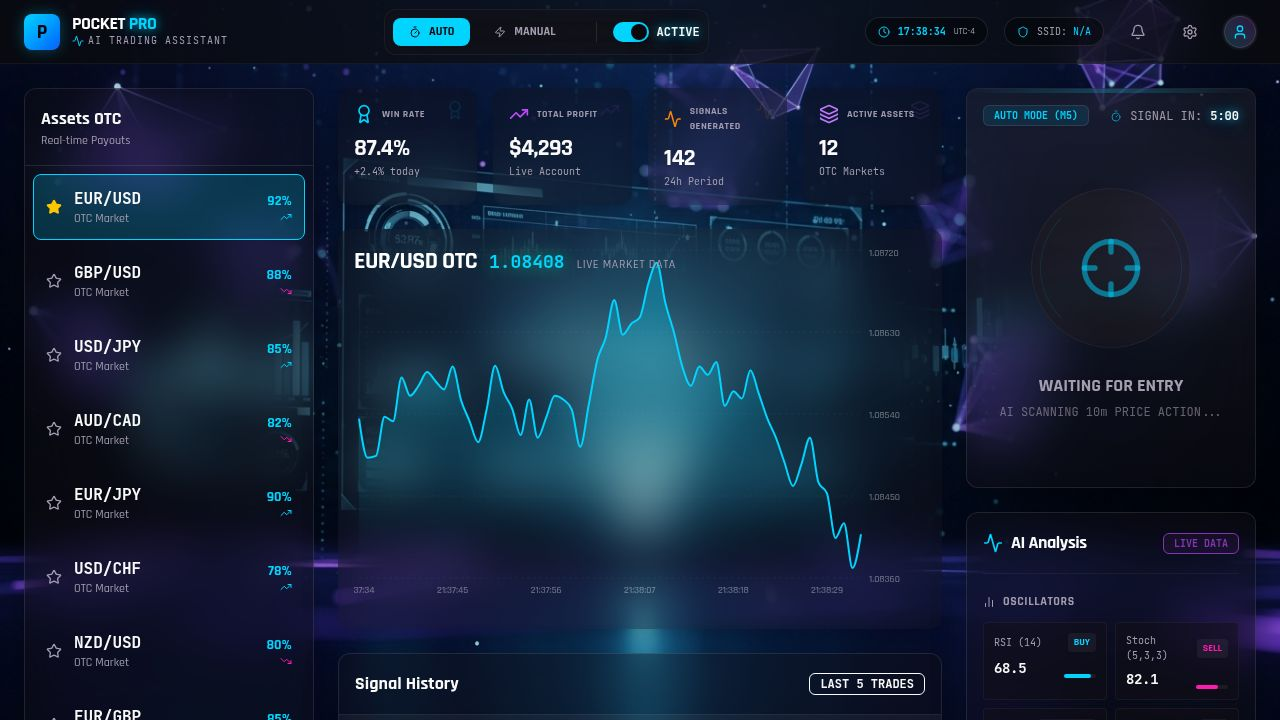
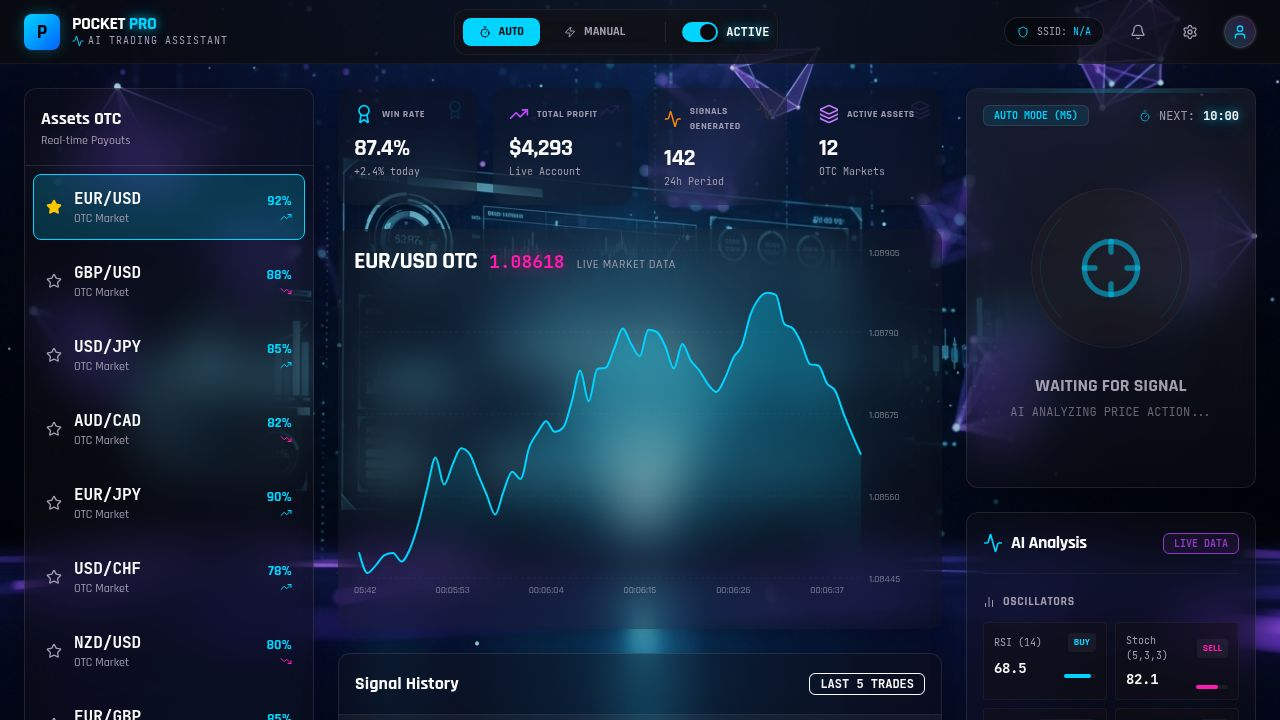
Adjust signal timing to send two minutes before the next candle
Implement a new signal scheduler to send Telegram signals 2 minutes before the M5 candle starts, adding a `scheduledSendTime` field to the API response.

Replit-Commit-Author: Agent
Replit-Commit-Session-Id: a379033b-e80f-44b3-a0f9-015bb0b9129b
Replit-Commit-Checkpoint-Type: full_checkpoint
Replit-Commit-Event-Id: 0d284b9a-00f3-48fb-a805-55f09395228a
Replit-Commit-Screenshot-Url: https://storage.googleapis.com/screenshot-production-us-central1/cf292209-5523-4e07-af94-c9d2358cc1a7/a379033b-e80f-44b3-a0f9-015bb0b9129b/Hjoza6V
Replit-Helium-Checkpoint-Created: true

diff --git a/server/signal-scheduler.ts b/server/signal-scheduler.ts
@@ -1,0 +1,134 @@
+// Signal Scheduler - Schedules Telegram sends 2 minutes before M5 candle starts
+
+interface ScheduledSignal {
+  id: string;
+  sendTime: Date;
+  telegram: { token: string; channelId: string };
+  signal: {
+    symbol: string;
+    signalType: string;
+    confidence: number;
+    entryPrice: number;
+    stopLoss: number;
+    takeProfit: number;
+    startTime: Date;
+    endTime: Date;
+    technicals: any;
+  };
+  timeout?: NodeJS.Timeout;
+}
+
+// Map to track scheduled signals
+const scheduledSignals = new Map<string, ScheduledSignal>();
+
+/**
+ * Calculate the next M5 candle start time
+ * M5 candles start at: 00:00, 00:05, 00:10, 00:15, etc.
+ */
+export function getNextM5CandleStartTime(): Date {
+  const now = new Date();
+  const minutes = now.getMinutes();
+  const seconds = now.getSeconds();
+  const milliseconds = now.getMilliseconds();
+
+  // Calculate how many minutes past the hour
+  const minutesPastHour = minutes % 5;
+  
+  // Calculate minutes until next 5-minute boundary
+  let minutesUntilNextBoundary = 5 - minutesPastHour;
+  
+  if (minutesPastHour === 0 && seconds === 0 && milliseconds === 0) {
+    // Already at exact boundary, next is 5 minutes away
+    minutesUntilNextBoundary = 5;
+  }
+
+  const nextCandle = new Date(now);
+  nextCandle.setMinutes(nextCandle.getMinutes() + minutesUntilNextBoundary);
+  nextCandle.setSeconds(0);
+  nextCandle.setMilliseconds(0);
+
+  return nextCandle;
+}
+
+/**
+ * Calculate send time: 2 minutes before next candle
+ */
+export function getSignalSendTime(): Date {
+  const nextCandleStart = getNextM5CandleStartTime();
+  const sendTime = new Date(nextCandleStart);
+  sendTime.setMinutes(sendTime.getMinutes() - 2);
+  return sendTime;
+}
+
+/**
+ * Schedule a signal to be sent to Telegram at the calculated time
+ */
+export function scheduleSignalSend(
+  signalId: string,
+  signal: any,
+  telegramToken: string,
+  channelId: string,
+  sendCallback: (signalId: string, sendTime: Date) => Promise<void>
+): { sendTime: Date; isImmediate: boolean } {
+  const sendTime = getSignalSendTime();
+  const now = new Date();
+
+  const isImmediate = sendTime.getTime() <= now.getTime();
+
+  if (isImmediate) {
+    // Send immediately
+    sendCallback(signalId, now).catch(err => {
+      console.error(`Error sending signal immediately: ${err}`);
+    });
+  } else {
+    // Schedule for future time
+    const delayMs = sendTime.getTime() - now.getTime();
+    
+    console.log(`[SIGNAL SCHEDULER] Signal ${signalId} scheduled to send in ${Math.round(delayMs / 1000)}s at ${sendTime.toISOString()}`);
+
+    const timeout = setTimeout(() => {
+      sendCallback(signalId, sendTime).catch(err => {
+        console.error(`Error sending scheduled signal: ${err}`);
+      });
+      scheduledSignals.delete(signalId);
+    }, delayMs);
+
+    scheduledSignals.set(signalId, {
+      id: signalId,
+      sendTime,
+      telegram: { token: telegramToken, channelId },
+      signal,
+      timeout,
+    });
+  }
+
+  return { sendTime, isImmediate };
+}
+
+/**
+ * Cancel a scheduled signal
+ */
+export function cancelScheduledSignal(signalId: string): boolean {
+  const scheduled = scheduledSignals.get(signalId);
+  if (scheduled && scheduled.timeout) {
+    clearTimeout(scheduled.timeout);
+    scheduledSignals.delete(signalId);
+    console.log(`[SIGNAL SCHEDULER] Cancelled signal ${signalId}`);
+    return true;
+  }
+  return false;
+}
+
+/**
+ * Get all scheduled signals
+ */
+export function getScheduledSignals(): ScheduledSignal[] {
+  return Array.from(scheduledSignals.values());
+}
+
+/**
+ * Get a specific scheduled signal
+ */
+export function getScheduledSignal(signalId: string): ScheduledSignal | undefined {
+  return scheduledSignals.get(signalId);
+}

diff --git a/server/routes.ts b/server/routes.ts
@@ -6,6 +6,7 @@ import { createTelegramService } from "./telegram";
 import { analyzeCandles, generateSignalFromTechnicals } from "./technical-analysis";
 import { addMinutes, addSeconds } from "date-fns";
 import { z } from "zod";
+import { scheduleSignalSend, getSignalSendTime } from "./signal-scheduler";
 
 // Request validation schemas
 const generateSignalSchema = z.object({
@@ -131,11 +132,12 @@ export async function registerRoutes(
         technicals: JSON.stringify(metrics),
       });
 
-      // Send to Telegram if credentials provided
-      let telegramResult: { success: boolean; messageId?: string; error?: string } = { success: false };
+      // Schedule Telegram send for 2 minutes before next M5 candle
+      let telegramResult: { success: boolean; messageId?: string; error?: string; scheduled?: boolean; scheduledSendTime?: string } = { success: false };
+      let scheduledSendTime: Date | null = null;
+
       if (telegramToken && channelId) {
-        const telegram = createTelegramService(telegramToken, channelId);
-        telegramResult = await telegram.sendSignal({
+        const signalPayload = {
           symbol,
           signalType: type,
           confidence,
@@ -157,11 +159,37 @@ export async function registerRoutes(
             stochasticD: metrics.stochasticD,
             adx: metrics.adx,
           },
-        });
+        };
 
-        if (telegramResult.success && telegramResult.messageId) {
-          await storage.updateSignalTelegram(signal.id, telegramResult.messageId);
-        }
+        // Schedule the telegram send callback
+        const sendCallback = async (signalId: string, sendTime: Date) => {
+          try {
+            const telegram = createTelegramService(telegramToken, channelId);
+            const result = await telegram.sendSignal(signalPayload);
+            if (result.success && result.messageId) {
+              await storage.updateSignalTelegram(signalId, result.messageId);
+              console.log(`[TELEGRAM] Signal ${signalId} sent successfully at ${sendTime.toISOString()}`);
+            }
+          } catch (error) {
+            console.error(`[TELEGRAM ERROR] Failed to send signal ${signalId}:`, error);
+          }
+        };
+
+        // Schedule the signal
+        const { sendTime, isImmediate } = scheduleSignalSend(
+          signal.id,
+          signalPayload,
+          telegramToken,
+          channelId,
+          sendCallback
+        );
+
+        scheduledSendTime = sendTime;
+        telegramResult = {
+          success: true,
+          scheduled: !isImmediate,
+          scheduledSendTime: sendTime.toISOString(),
+        };
       }
 
       res.json({
@@ -175,6 +203,7 @@ export async function registerRoutes(
           entryTime,
           expiryTime,
           technicals: metrics,
+          scheduledSendTime,
         },
         telegram: telegramResult,
       });
